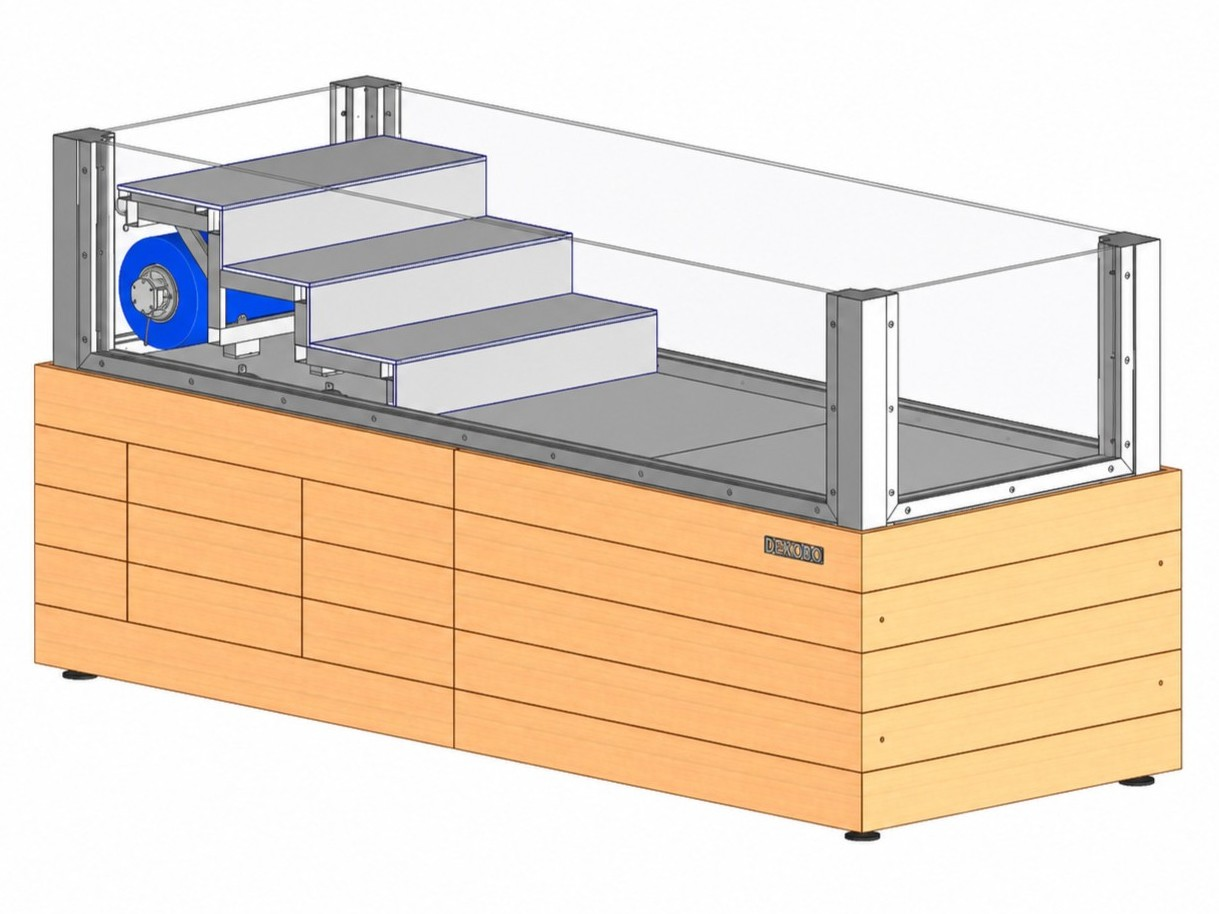
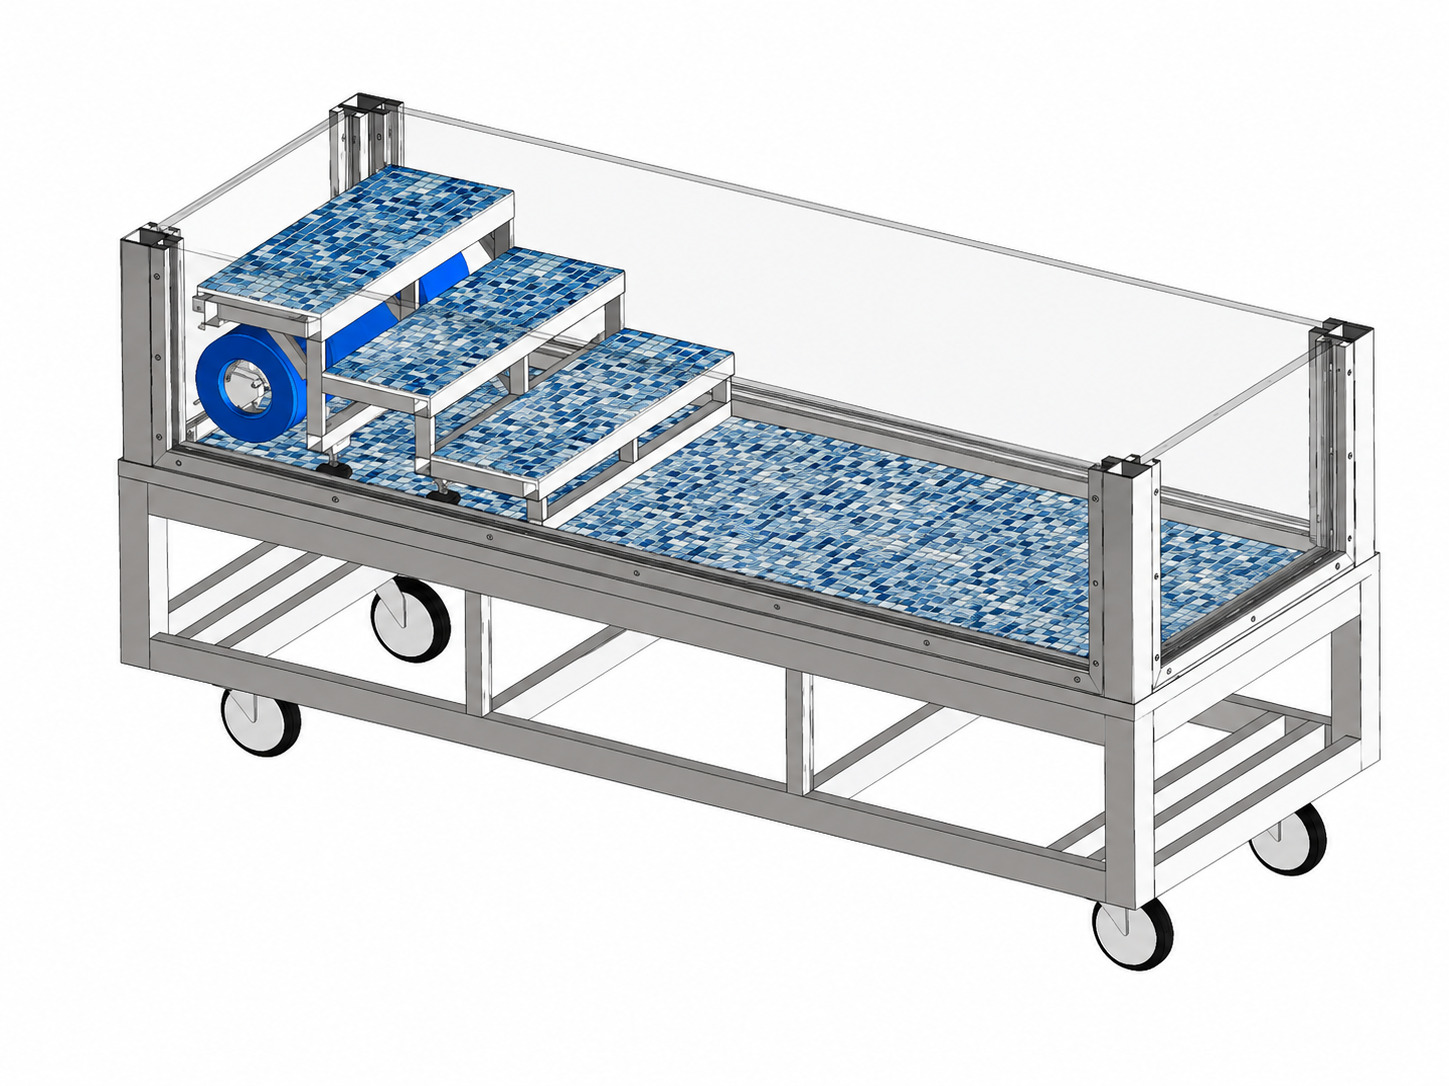
Add Exhibition Pool project

diff --git a/src/data/projects.ts b/src/data/projects.ts
@@ -203,6 +203,25 @@ export const projects: Project[] = [
         featured: false,
         heroImage: "/images/projects/exhibition-pool/hero.jpg",
         heroImageClass: "hero-exhibition-pool",
+
+        references: [
+    {
+        text: "Dekobo",
+        url: "https://www.dekobo.es/en"
+    },
+    {
+        text: "Piscina Barcelona",
+        url: "https://www.piscinabarcelona.es/"
+    },
+    {
+        text: "Disegna",
+        url: "https://disegna.es/"
+    },
+    {
+        text: "Dekobo's LinkedIn post from the expo",
+        url: "https://www.linkedin.com/posts/dekobo-spain-s-l-_dekobospain-poolcovers-cubiertasparapiscinas-activity-7396152330724913152-RVw2?utm_source=share&utm_medium=member_desktop&rcm=ACoAACbR7_gBzMLmtin7QCuBJyI2SQoTQ1mzwzU"
+    },
+        ],
     },
 
 ];